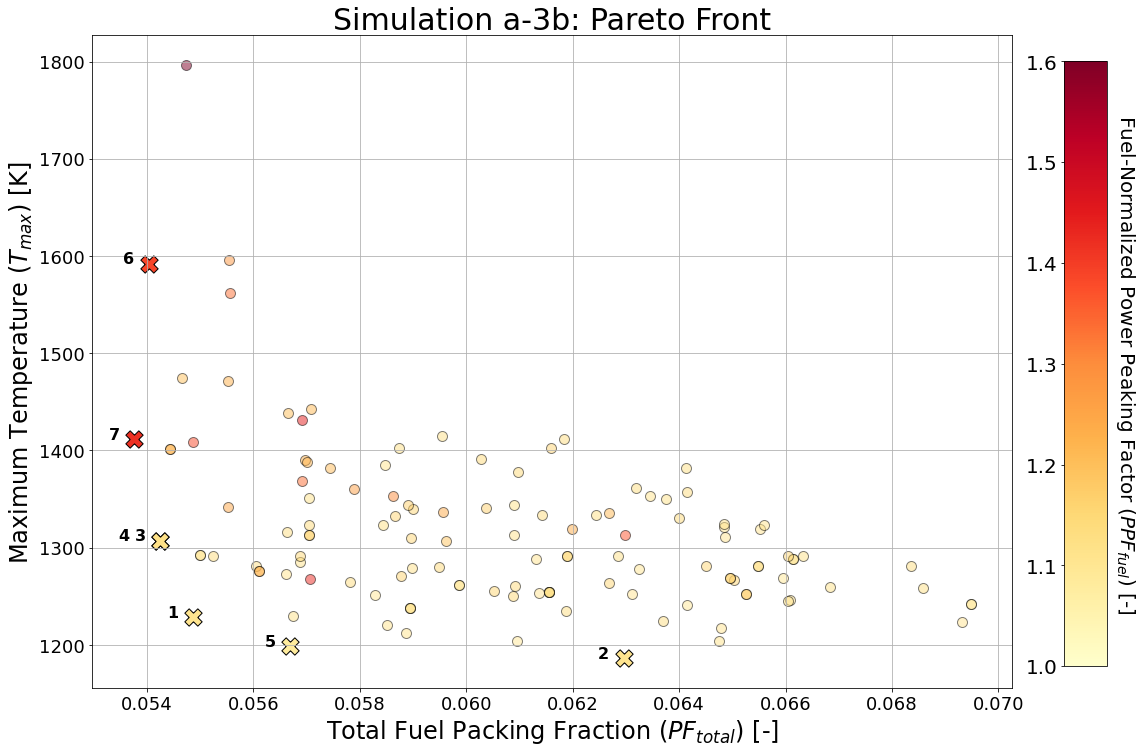
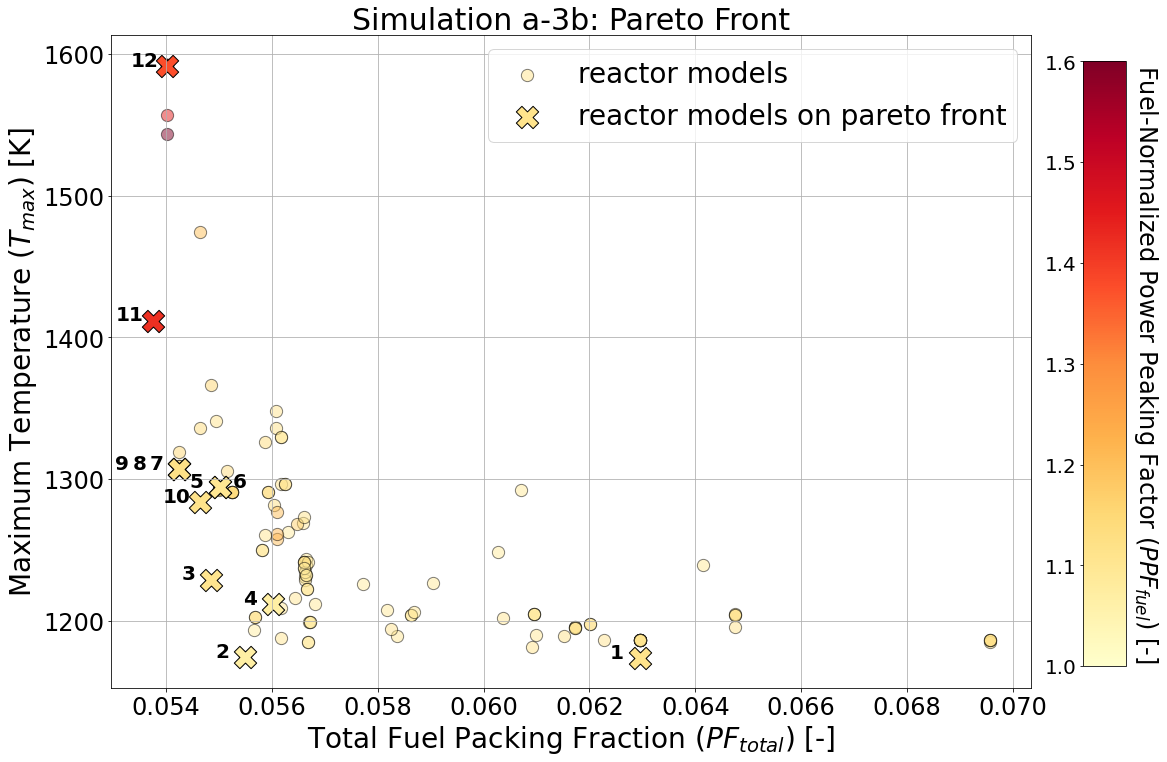
writing

diff --git a/docs/ahtr_rollo_assem.tex b/docs/ahtr_rollo_assem.tex
@@ -1317,7 +1317,7 @@ Table \ref{tab:simulationa3b} shows simulation a-3b's optimization problem param
     \textbf{Constraints} & $k_{eff} \geq 1.38$\\ 
     \hline 
     \textbf{Genetic algorithm parameters} & Population size: 128 \\
-    & Generations: xx \\
+    & Generations: 6 \\
     \hline
     \end{tabular}
 \end{table}
@@ -1337,14 +1337,12 @@ confirming that simulation a-3b converges by generation xx.
     \hline 
     \textbf{Generation} & \textbf{Hypervolume [-]} \\
     \hline
-    1 & xx \\
-    2 & xx \\
-    3 & xx \\
-    4 & xx \\
-    5 & xx \\
-    6 & xx \\
-    7 & xx \\
-    8 & xx \\
+    1 & 5.4961 \\
+    2 & 5.6739 \\
+    3 & 5.6876 \\
+    4 & 5.8104 \\
+    5 & 6.0023 \\
+    6 & 6.0093 \\
     \hline
     \end{tabular}
 \end{table}
@@ -1352,7 +1350,7 @@ confirming that simulation a-3b converges by generation xx.
 Figure \ref{fig:assem-obj-3-all-2d} shows a plot of the final generation's reactor 
 models' $PF_{total}$ against $T_{max}$ against $PPF_{fuel}$; crosses mark the reactor 
 models that fall on the Pareto front.
-Figure \ref{fig:assem-obj-3-all-distr} shows the xx TRISO packing fraction distributions in 
+Figure \ref{fig:assem-obj-3-all-distr} shows the 12 TRISO packing fraction distributions in 
 the final generation that fall on the Pareto front. 
 \begin{figure}[htbp!]
     \begin{subfigure}{\textwidth}
